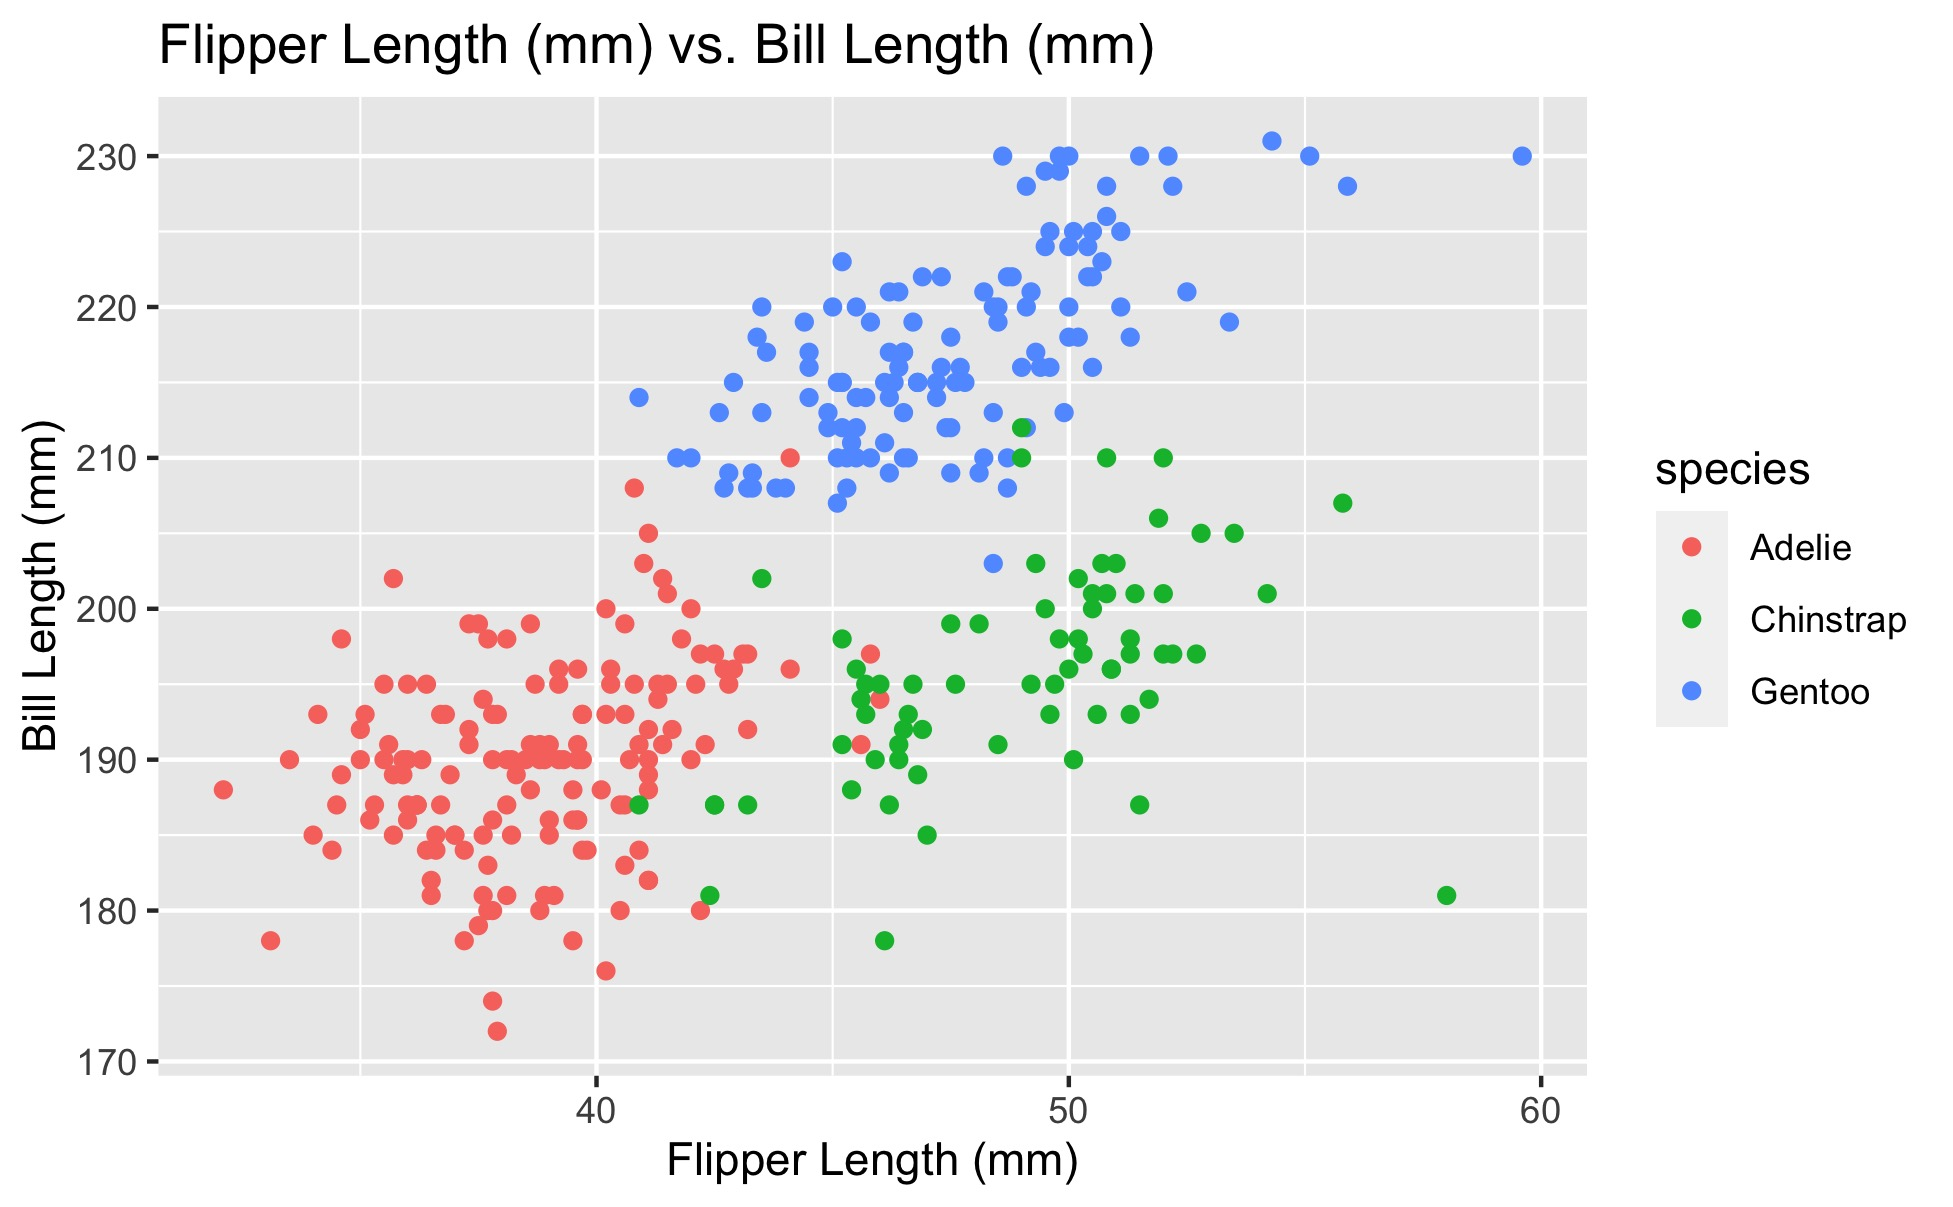
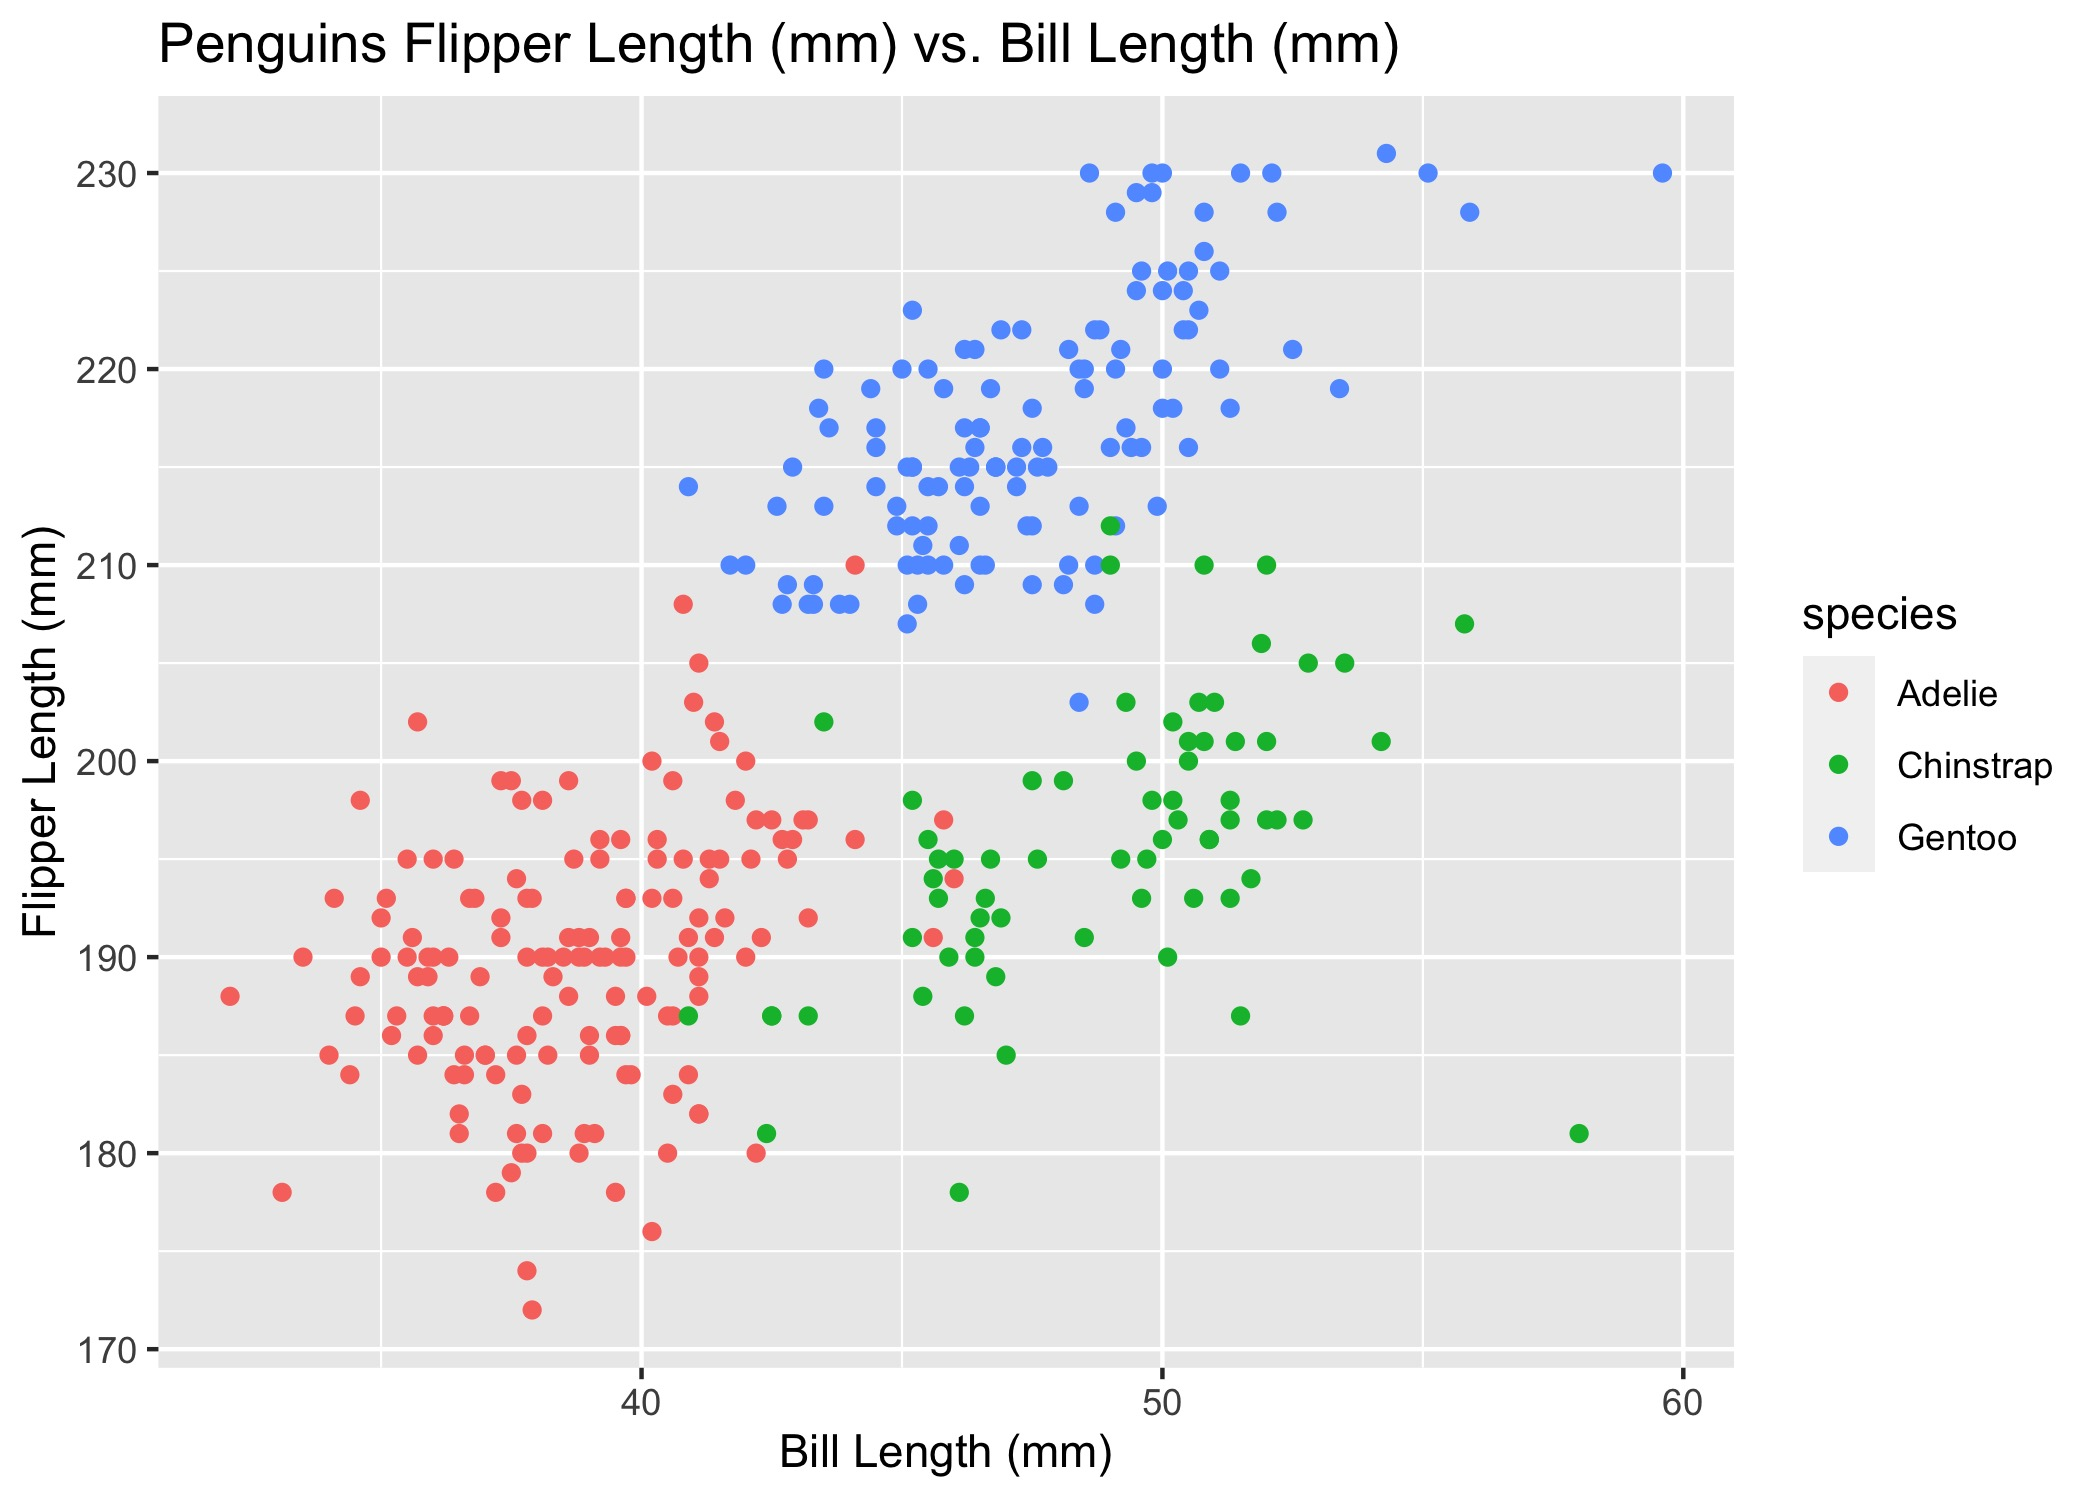
HW1 Rmd/html file & plot

diff --git a/p8105_hw1_hx2306.md b/p8105_hw1_hx2306.md
@@ -1,0 +1,192 @@
+p8105\_hw1\_hx2306
+================
+HuijunXiao
+9/21/2021
+
+## Problem 1
+
+-   Step 1: Create the dataframe
+
+``` r
+# a random sample of size 10 from a standard Normal distribution
+nordist_sam <-
+  rnorm(10)
+
+# a logical vector indicating whether elements of the sample are greater than 0
+sam_greater0 <-
+  nordist_sam >0 
+
+# a character vector of length 10
+chara_10 <-
+  c("a","b","c","d","e","f","g","h","i","j")
+
+# a factor vector of length 10, with 3 different factor “levels”
+fact_10 <-
+  c("good","bad","ok","good","bad","ok","good","bad","ok","good")%>%
+  as.factor()
+```
+
+``` r
+# problem 1 data frame
+df_problem1 <-
+  tibble(nordist_sam,sam_greater0,chara_10,fact_10)
+
+df_problem1
+```
+
+    ## # A tibble: 10 × 4
+    ##    nordist_sam sam_greater0 chara_10 fact_10
+    ##          <dbl> <lgl>        <chr>    <fct>  
+    ##  1      -0.585 FALSE        a        good   
+    ##  2      -0.792 FALSE        b        bad    
+    ##  3       1.49  TRUE         c        ok     
+    ##  4       0.245 TRUE         d        good   
+    ##  5       3.17  TRUE         e        bad    
+    ##  6       1.72  TRUE         f        ok     
+    ##  7      -1.33  FALSE        g        good   
+    ##  8       1.59  TRUE         h        bad    
+    ##  9       1.69  TRUE         i        ok     
+    ## 10      -1.15  FALSE        j        good
+
+-   Step 2: Take the mean of each variable in the data frame
+
+``` r
+# Mean of nordist_sam
+mean(pull(df_problem1,nordist_sam))
+```
+
+    ## [1] 0.6055418
+
+``` r
+# Mean of sam_greater0
+mean(pull(df_problem1,sam_greater0))
+```
+
+    ## [1] 0.6
+
+``` r
+# Mean of chara_10
+mean(pull(df_problem1,chara_10))
+```
+
+    ## Warning in mean.default(pull(df_problem1, chara_10)): argument is not numeric or
+    ## logical: returning NA
+
+    ## [1] NA
+
+``` r
+# Mean of fact_10
+mean(pull(df_problem1,fact_10))
+```
+
+    ## Warning in mean.default(pull(df_problem1, fact_10)): argument is not numeric or
+    ## logical: returning NA
+
+    ## [1] NA
+
+**Only numeric and logical variables are able to take the means.For
+character and factor variables, taking the mean does not work and will
+return NA instead.**
+
+-   Step 3: Add `as.numeric` function to logical,character and factor
+    variables
+
+``` r
+# add as.numeric to nordist_sam
+as.numeric(pull(df_problem1,nordist_sam))
+
+# add as.numeric to sam_greater0
+as.numeric(pull(df_problem1,sam_greater0))
+
+# add as.numeric to chara_10
+as.numeric(pull(df_problem1,chara_10))
+```
+
+    ## Warning: NAs introduced by coercion
+
+``` r
+# add as.numeric to fact_10
+as.numeric(pull(df_problem1,fact_10))
+```
+
+**`as.numeric` function can be applied to logical variables
+successfully.**  
+**However, it cannot be applied to character and factor variables.**  
+**This helps explain what happens when I try to take the mean as factor
+and character strings are not properly formatted numbers.**  
+**Hence, they cannot be converted to the numeric class and means cannot
+be calculated as well.**
+
+## Problem 2
+
+``` r
+#Load Penguins dataset 
+data("penguins", package = "palmerpenguins")
+```
+
+-   Step 1: Short description of the `penguins` dataset
+
+``` r
+# the data in this dataset, including names / values of important variables
+head(penguins)
+```
+
+    ## # A tibble: 6 × 8
+    ##   species island bill_length_mm bill_depth_mm flipper_length_… body_mass_g sex  
+    ##   <fct>   <fct>           <dbl>         <dbl>            <int>       <int> <fct>
+    ## 1 Adelie  Torge…           39.1          18.7              181        3750 male 
+    ## 2 Adelie  Torge…           39.5          17.4              186        3800 fema…
+    ## 3 Adelie  Torge…           40.3          18                195        3250 fema…
+    ## 4 Adelie  Torge…           NA            NA                 NA          NA <NA> 
+    ## 5 Adelie  Torge…           36.7          19.3              193        3450 fema…
+    ## 6 Adelie  Torge…           39.3          20.6              190        3650 male 
+    ## # … with 1 more variable: year <int>
+
+**`penguins` dataset contains 8 variables, which are species, island,
+bill length, bill depth, flipper length, body mass, sex and year, and
+344 rows of observations.**
+
+**`penguins` dataset included data recorded from 2007 to 2009.**
+
+**For species of this dataset, there are 3 categories, which are Adelie,
+Gentoo, Chinstrap.**
+
+**For island of this dataset, there are 3 categories, which are
+Torgersen, Biscoe, Dream.**
+
+**The bill length (mm) starts from 32.1 to 59.6 with mean equals to
+43.9219298.**
+
+**The bill depth (mm) starts from 13.1 to 21.5 with mean equals to
+17.1511696.**
+
+**The flipper length (mm) starts from 172 to 231 with mean equals to
+200.9152047.**
+
+**The body mass (g) starts from 2700 to 6300 with mean equals to
+4201.754386.**
+
+-   Step 2: Make a scatterplot of flipper\_length\_mm (y) vs
+    bill\_length\_mm (x)
+
+``` r
+## make plot
+ggplot(penguins, aes(x = bill_length_mm, y = flipper_length_mm, color = species)) + 
+  geom_point() +
+  ggtitle("Penguins Flipper Length (mm) vs. Bill Length (mm)") +
+  ylab("Flipper Length (mm)") +
+  xlab("Bill Length (mm)")
+```
+
+    ## Warning: Removed 2 rows containing missing values (geom_point).
+
+![](p8105_hw1_hx2306_files/figure-gfm/unnamed-chunk-7-1.png)<!-- -->
+
+``` r
+## save plot
+ggsave("p8105_hw1_hx2306_scatterplot.jpeg",plot = last_plot())
+```
+
+    ## Saving 7 x 5 in image
+
+    ## Warning: Removed 2 rows containing missing values (geom_point).
